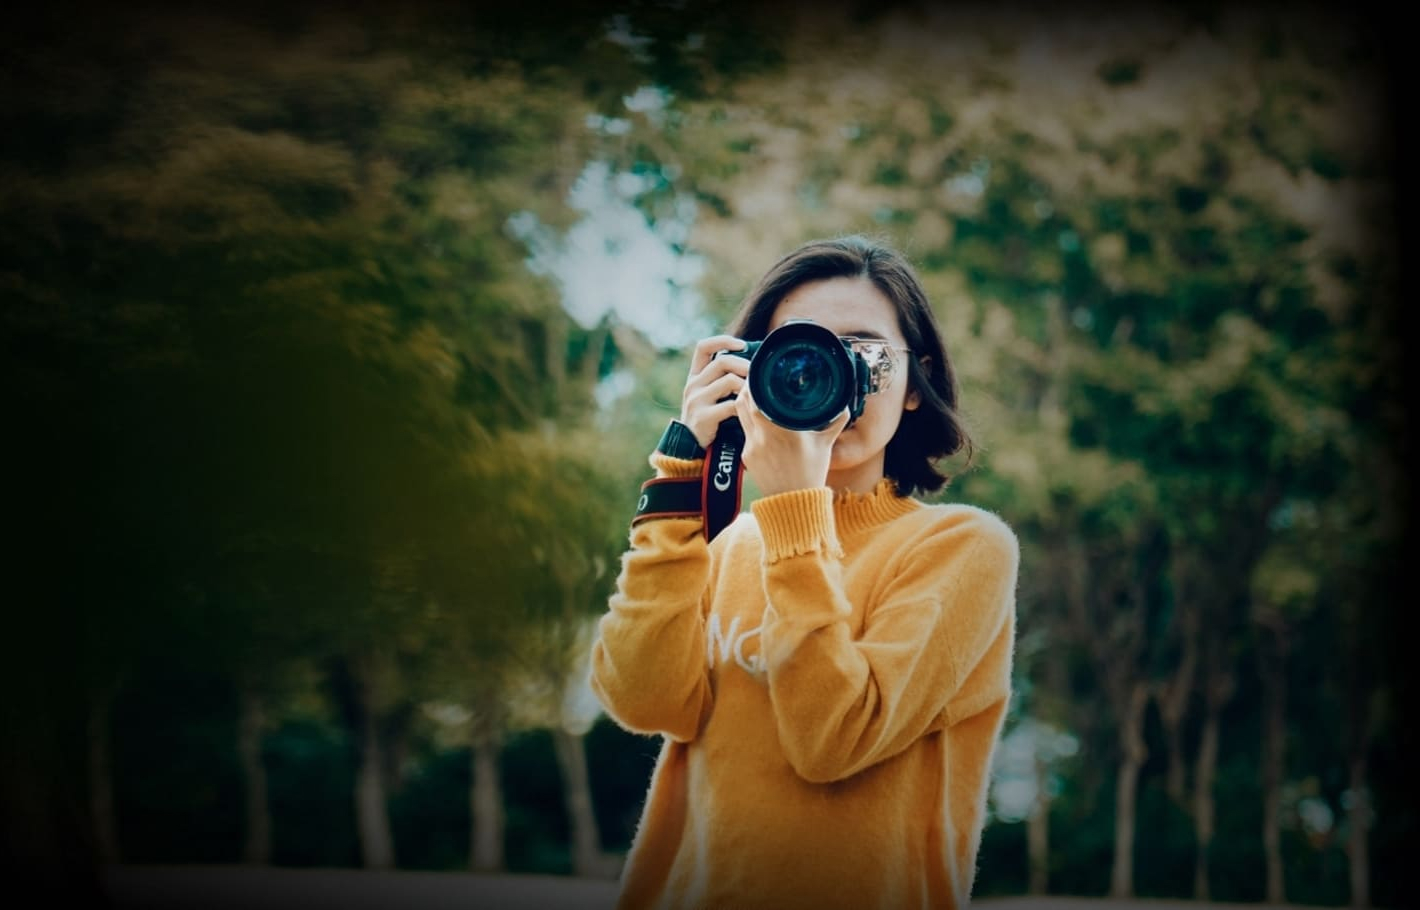
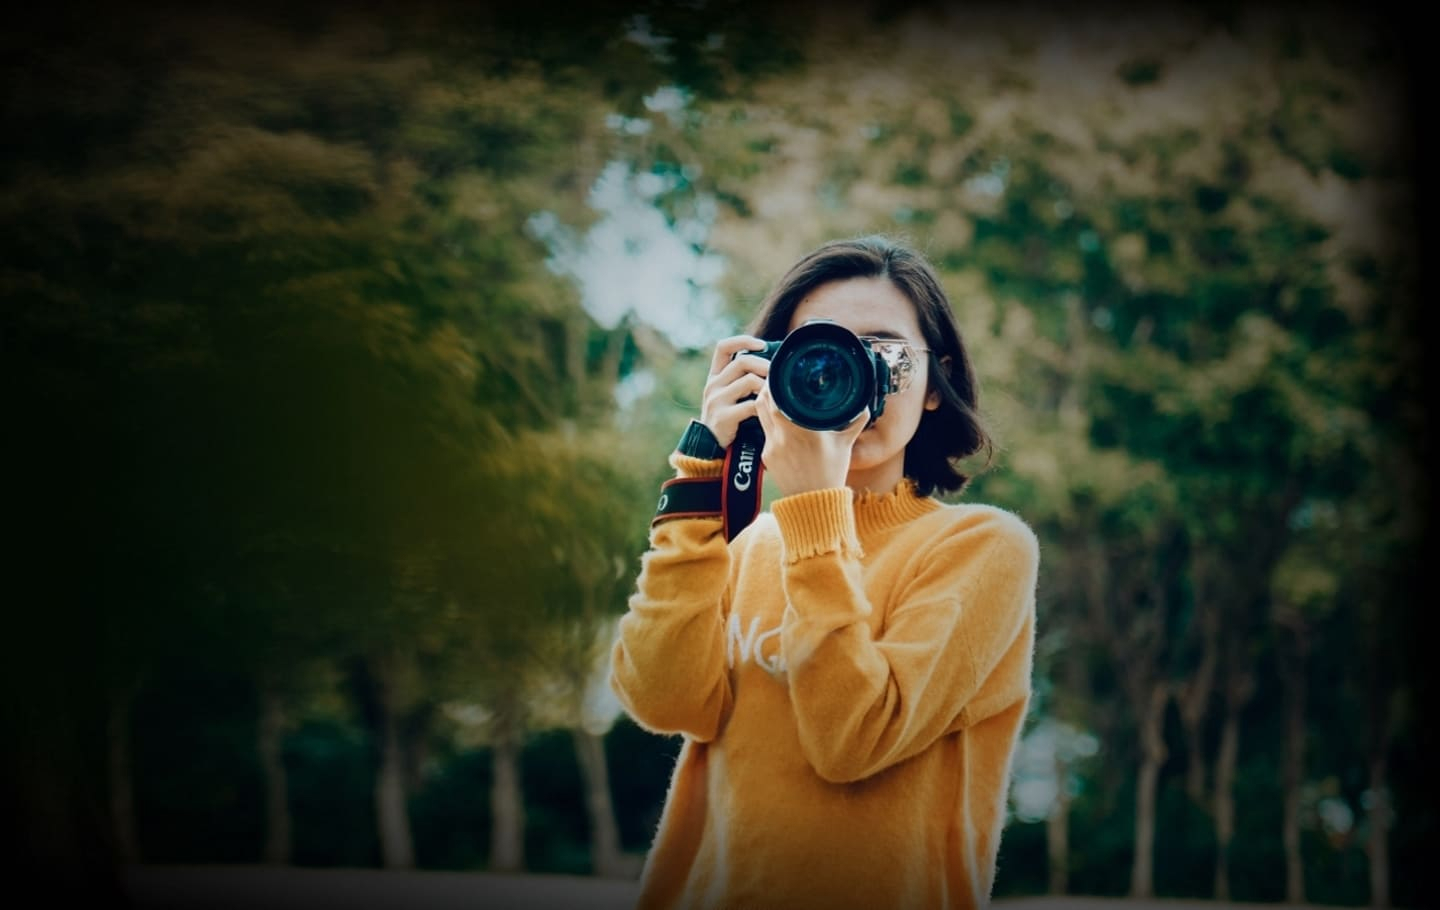
fix: hero_bg adaptive

diff --git a/portfolio/style.css b/portfolio/style.css
@@ -4,6 +4,15 @@
   }
 }
 
+/* Reset default styles */
+* {
+  outline: 0;
+  margin: 0;
+  padding: 0;
+  border: 0;
+}
+
+
 .element::-webkit-scrollbar { width: 0; }
 
 :root {
@@ -18,13 +27,6 @@ html {
   scroll-behavior: smooth;
 }
 
-ul,
-li,
-ol {
-  margin: 0;
-  padding: 0;
-  list-style: none;
-}
 
 img {
   display: inline-block;
@@ -66,11 +68,9 @@ img {
 
 body {
   font-family: "Inter", sans-serif;
-  font-family: "Merriweather", serif;
   background-color: #000;
   color: #ffffff;
   scroll-behavior: smooth;
-  overflow: hidden;
 }
 
 * {
@@ -79,11 +79,12 @@ body {
 }
 
 .container {
+  display: block;
   max-width: 1440px;
   margin: 0 auto;
+  position: relative;
+  overflow-x: hidden;
   padding: 0 20px;
-  display: block;
-  position: relative;  
 }
 
 
@@ -129,7 +130,7 @@ body {
   top: -33px;
   /*background-image: linear-gradient(to top, #000 39px, #bdae82 39px, #bdae82 41px, #000 41px);*/
 }
-container__section
+.container__section
 {
   display: flex;
   justify-content: space-between;
@@ -144,15 +145,18 @@ container__section
   background: url('./assets/img/header_bg.jpg');
   background-repeat: no-repeat;  
   width: 1440px;
-  height: 900px;
+  height: 910px; 
   position: absolute;  
   z-index: -1;
+/*   top:-8px; */
+
 }
 
 .wrapper_bg{
   position: relative;
-  left: 0px;
-  top: -7px;
+  display: flex;
+  justify-content: center;
+
 }
 
 .logo {
@@ -244,7 +248,7 @@ container__section
 /* ------hero ------*/
 .hero {
   padding-top: 110px;
-  padding-bottom: 330px;
+  padding-bottom: 600px;
 }
 
 .hero__content_box {

diff --git a/portfolio/index.html b/portfolio/index.html
@@ -11,7 +11,7 @@
 	<link href="https://fonts.googleapis.com/css2?family=Inter:wght@400;700&family=Merriweather:wght@700&display=swap" rel="stylesheet" />
 	<link rel="stylesheet" href="style.css" />
 	<link rel="icon" href="assets/svg/favicon.ico" />
-	<script src="index.js"></script>
+<!-- 	<script src="index.js"></script> -->
 </head>
 
 <body>
@@ -52,7 +52,7 @@
 		</header>
 		<main>
 			<section class="hero">
-				<div class="container_secion">
+				<div class="container__secion">
 					<div class="hero__content_box">
 						<h1 class="hero__header">Alexa Rise</h1>
 						<p class="hero__text">
@@ -65,7 +65,7 @@
 					</div>
 				</div>
 			</section>
-			<section class="skills" id="skills">
+<!-- 			<section class="skills" id="skills">
 				<div class="container container__section">
 					<div class="wrapper">
 						<h2 class="section__header">Skills</h2>
@@ -248,7 +248,7 @@
 					</ul>
 				</div>
 			</div>
-		</footer>
+		</footer> -->
 	</div>
 </body>
 
